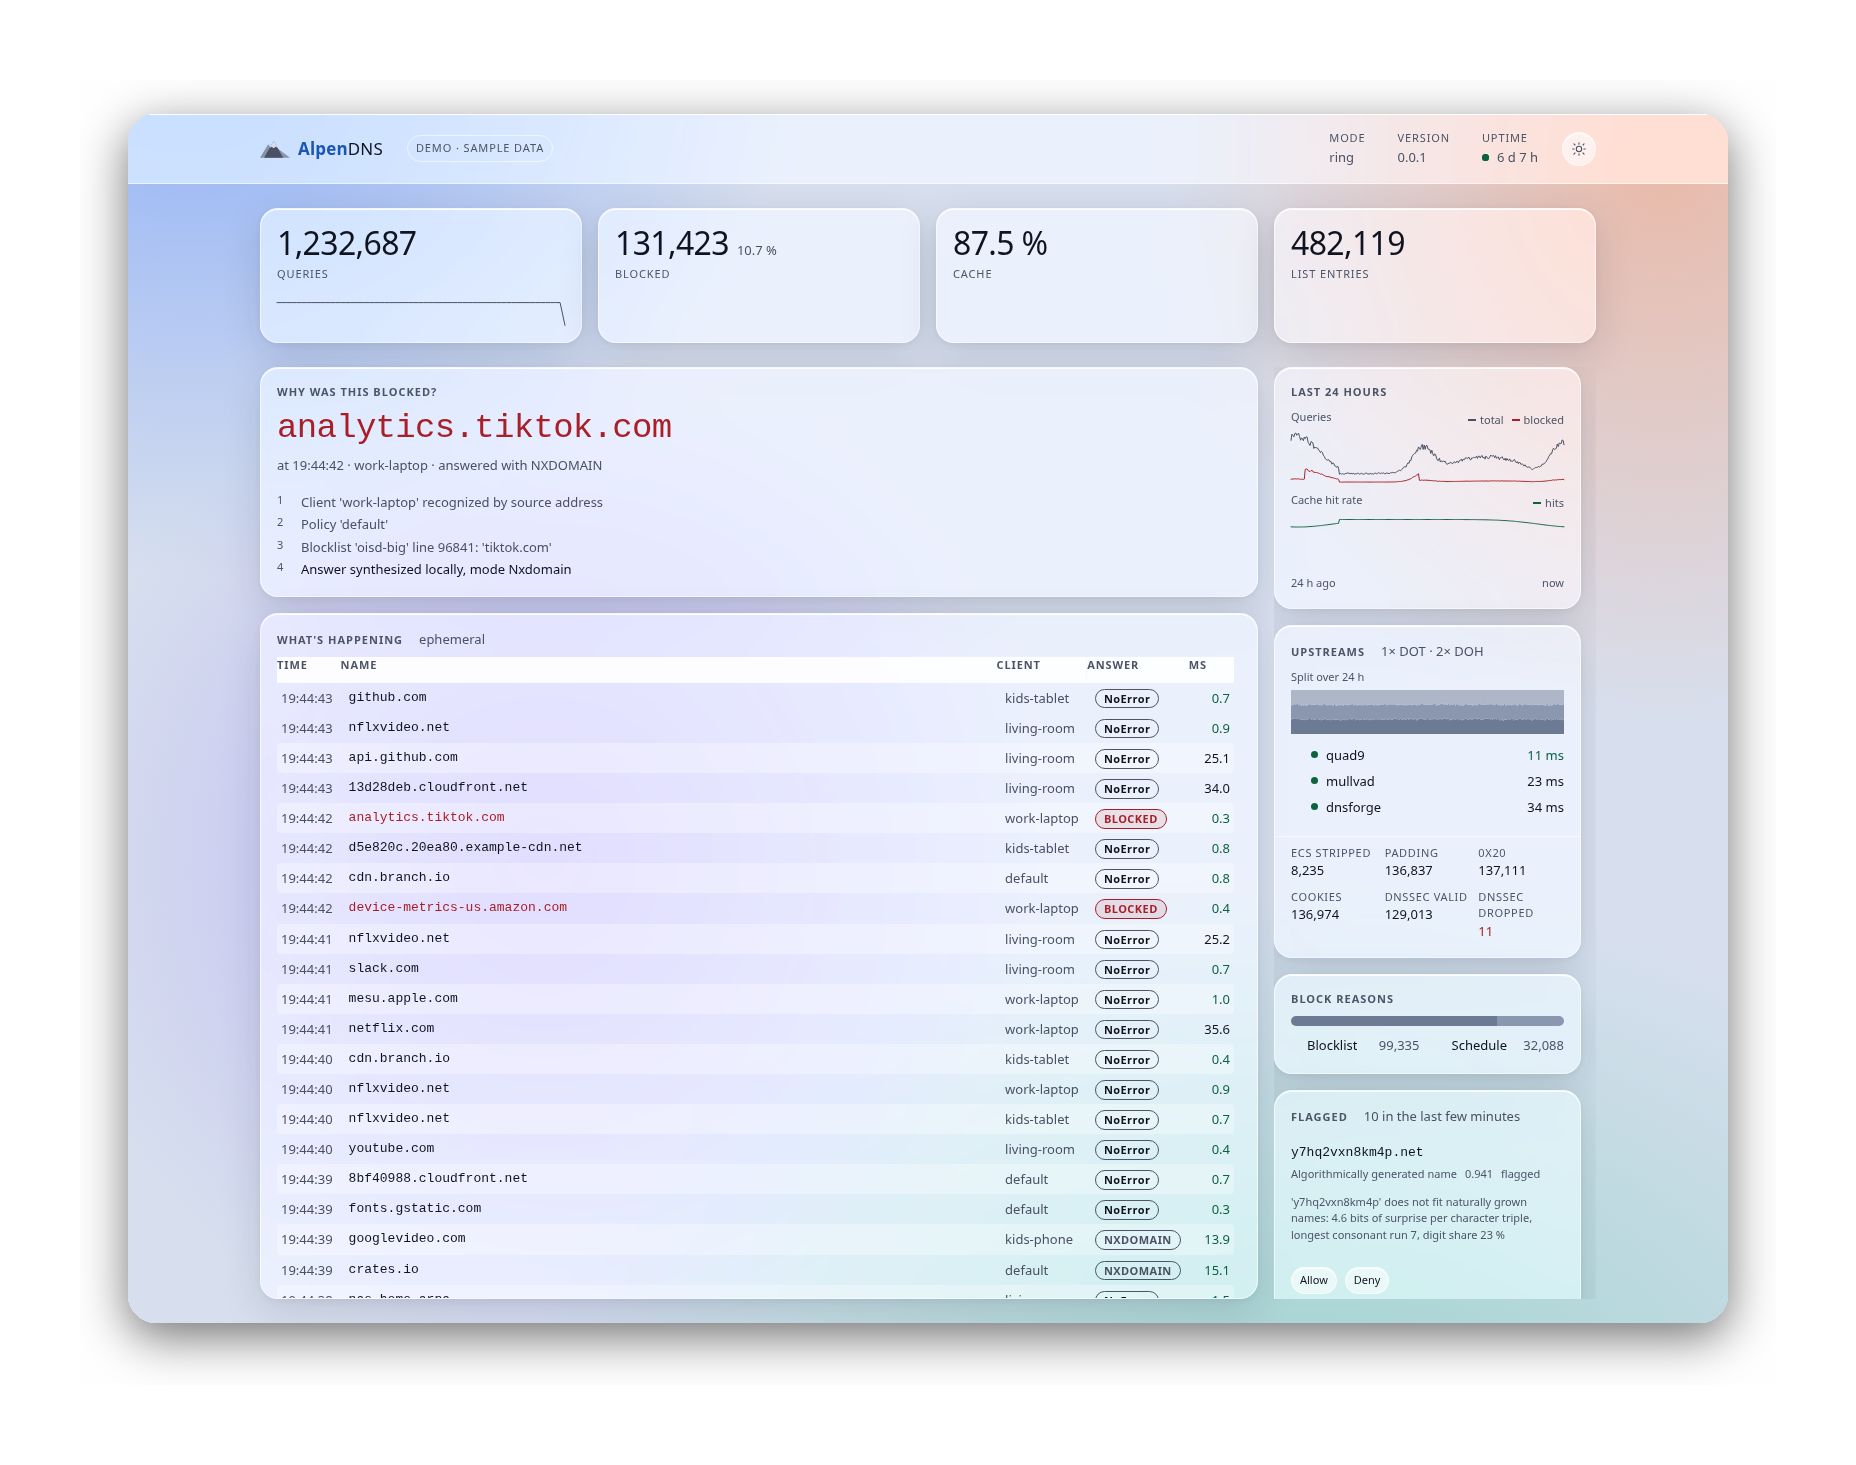
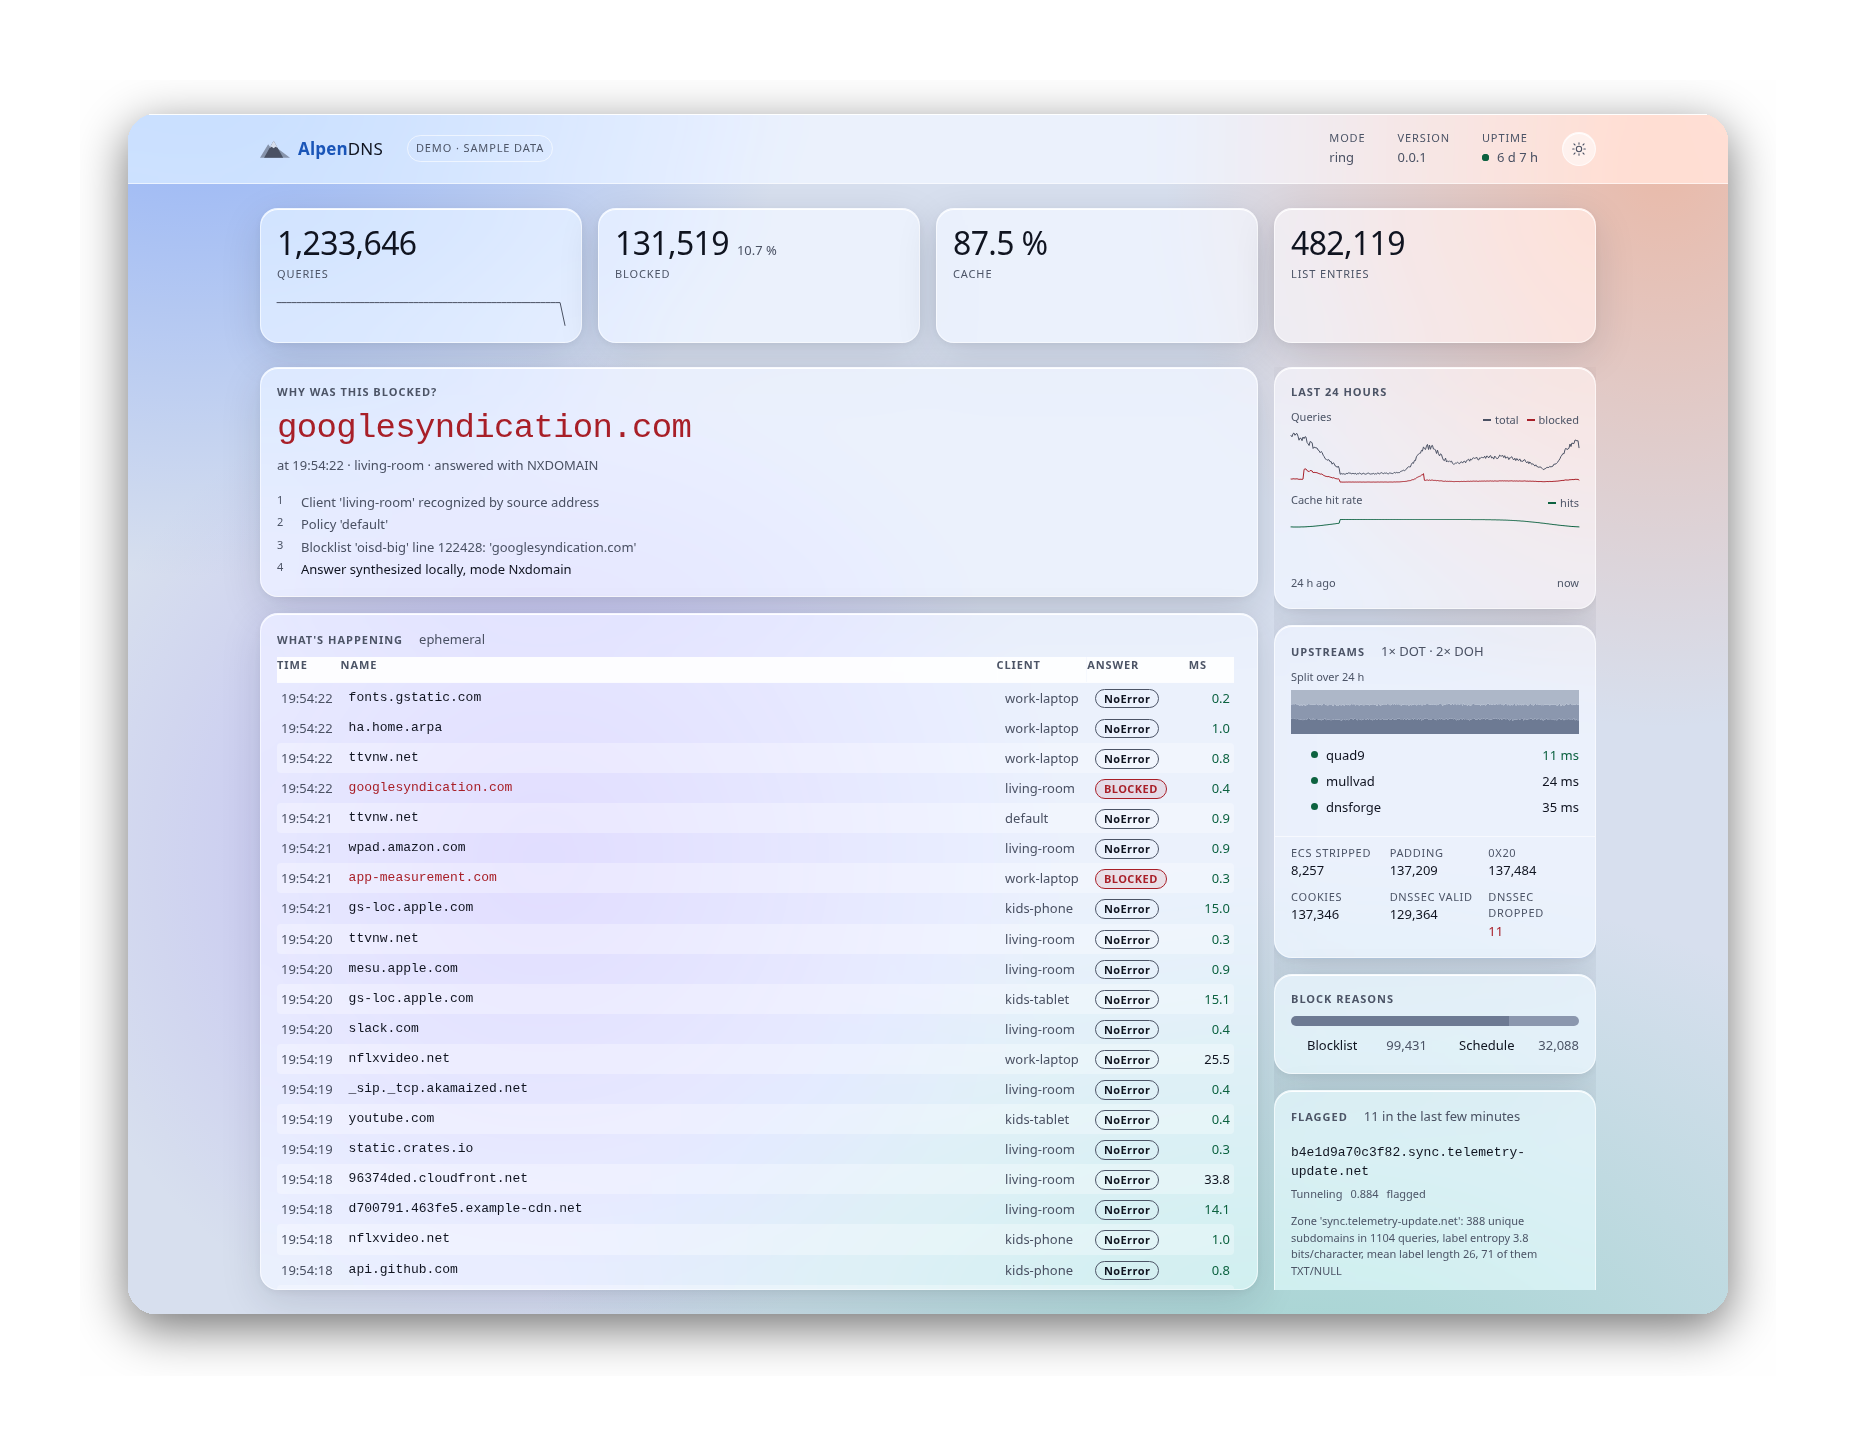
fix(web): die Panels der Nebenspalte stehen auf der Kante der Kacheln
`scrollbar-gutter: stable` an `.side` reservierte eine Rollbalken-Spur von
15 px — im Grid-Element selbst, also in der Spur, auf der die Panels stehen.
Gemessen bei 1600 px Breite: rechte Kante der Panels 1453 px, die der Kacheln
1468 px.

Zu sehen war die reservierte Bahn nie: kein Rollbalken zeichnet darin.
Reserviert wurde trotzdem, denn `stable` reserviert unabhängig davon, ob
gerade gerollt wird.

An `.log` bleibt sie: dort liegt die Bahn im Panel, nicht an seiner Kante,
und hält die Spalten beim Rollen still. Der neue Test hält beide Fälle
auseinander, damit die Spur nicht von der einen Regel an die andere rutscht.

Der README-Screenshot ist mit derselben Änderung neu aufgenommen (1600x1200
wie zuvor).

diff --git a/web/app.css b/web/app.css
@@ -818,8 +818,14 @@ td.c-time { color: var(--muted); }
   gap: var(--s-16);
   min-height: 0;
   overflow-y: auto;
-  scrollbar-gutter: stable;
 }
+/* Hier bewusst keine reservierte Rollbalken-Spur, anders als bei .log: die
+   Panels sind die sichtbare Fläche dieser Spur, die Spur selbst ist das
+   Grid-Element. Eine reservierte Bahn zöge jedes Panel um ihre Breite ein —
+   gemessen 15 px — und damit die rechte Kante weg von der, auf der die
+   Kacheln darüber stehen (siehe the_panes_sit_on_the_same_four_tracks, und
+   der Kommentar an .panes). Bei .log ist das folgenlos: dort liegt die Bahn
+   im Panel, nicht an seiner Kante. */
 .top-panel { display: grid; grid-template-rows: auto minmax(0, 1fr); min-height: 0; }
 
 /* Die Spalte ist eine Spur breit, also eine Kachel (siehe .panes); keines ihrer

diff --git a/crates/alpendns/src/api/ui.rs b/crates/alpendns/src/api/ui.rs
@@ -217,6 +217,15 @@ mod tests {
             rule(".side").contains("grid-column: span 1"),
             "die Nebenspalte ist nicht eine Kachel breit"
         );
+        // Eine reservierte Rollbalken-Spur an der Nebenspalte zöge jedes ihrer
+        // Panels um ihre Breite ein — gemessen 15 px — und die rechte Kante
+        // damit von der der Kacheln weg. Dieselbe Spur an .log ist dagegen
+        // folgenlos: sie liegt im Panel, nicht an seiner Kante.
+        assert!(
+            !rule(".side").contains("scrollbar-gutter"),
+            "die Nebenspalte reserviert eine Rollbalken-Spur und steht damit \
+             nicht mehr auf der Kante der Kacheln"
+        );
         // Und im schmalen Fenster wieder zurück: ein "span 3" in einem Raster
         // mit einer einzigen Spalte legte zwei zusätzliche Spuren an, statt
         // einfach voll breit zu sein.
